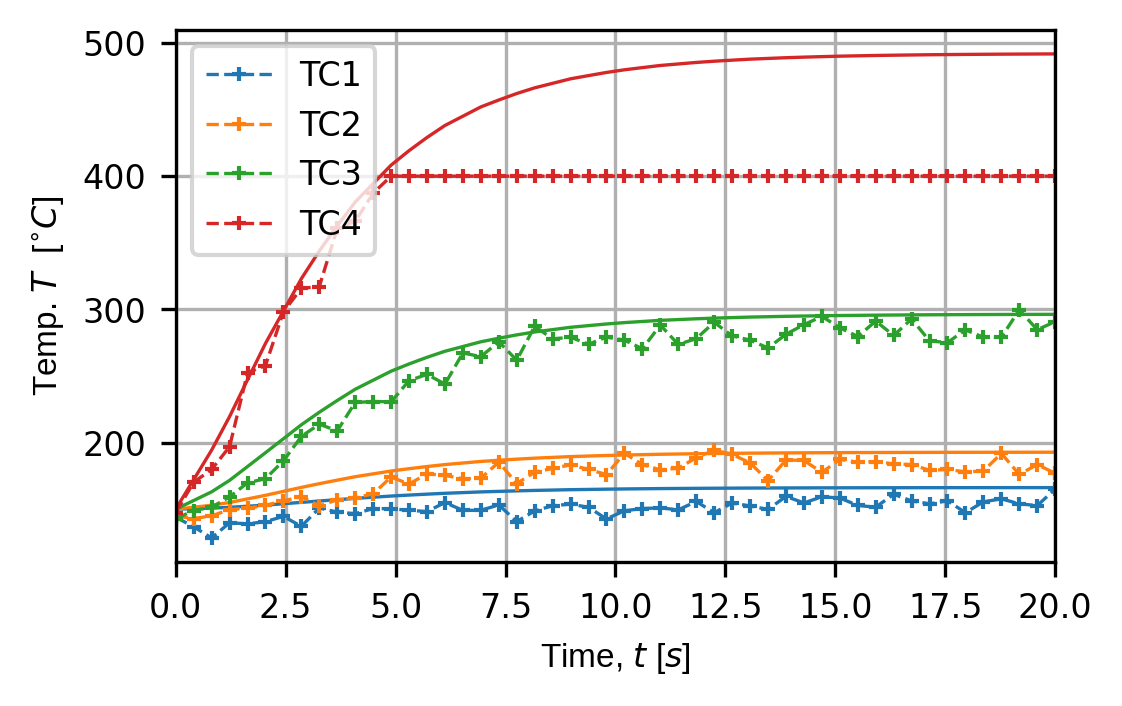
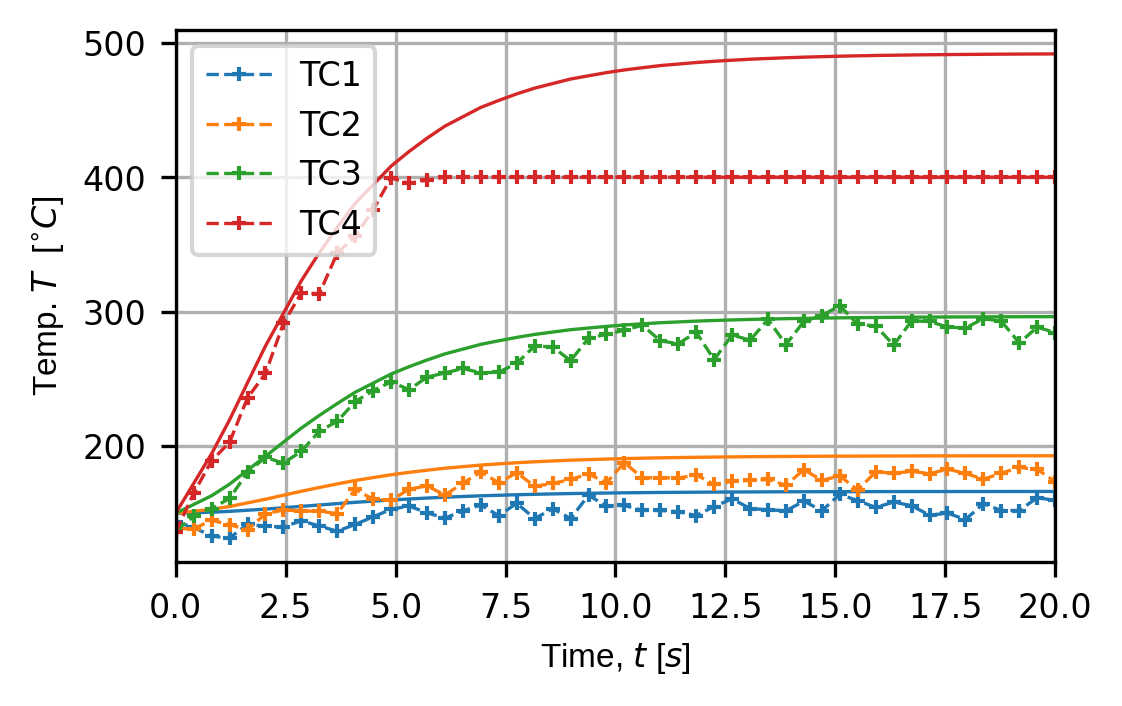
Finished fixing images for docs of new examples and fixed bug with experiment trace plotter not loading correct sim data

Changed region(s): [[0.0624, 0.2181, 0.9358, 0.779], [0.0624, 0.2181, 0.1248, 0.2805], [0.4367, 0.1246, 0.4679, 0.1558]]

diff --git a/src/pyvale/sensorsim/visualexpplotter.py b/src/pyvale/sensorsim/visualexpplotter.py
@@ -24,8 +24,7 @@ from pyvale.sensorsim.experimentstats import calc_sensor_array_stats
 def plot_exp_traces(exp_sim: ExperimentSimulator,
                     component: str,
                     sens_array_num: int,
-                    sim_num: int,
-                    
+                    sim_num: int,                    
                     trace_opts: TraceOptsExperiment | None = None,
                     plot_opts: PlotOptsGeneral | None = None) -> tuple[Any,Any]:
     """Plots time traces for summary statistics of virtual sensor traces over
@@ -58,7 +57,7 @@ def plot_exp_traces(exp_sim: ExperimentSimulator,
     Raises
     ------
     VisError
-        There are no virtual experiments or virtuale experiment stats to plot in
+        There are no virtual experiments or virtual experiment stats to plot in
         the ExperimentSimulator object. Call 'run_experiments' and 'calc_stats'.
     """
     if trace_opts is None:
@@ -67,16 +66,19 @@ def plot_exp_traces(exp_sim: ExperimentSimulator,
     if plot_opts is None:
         plot_opts = PlotOptsGeneral()
 
-    descriptor = exp_sim._sensor_arrays[sens_array_num]._descriptor
-    comp_ind = (
-        exp_sim._sensor_arrays[sens_array_num]
-        .get_field()
-        .get_component_index(component)
-    )
-    samp_time = exp_sim._sensor_arrays[sens_array_num].get_sample_times()
-    num_sens = exp_sim._sensor_arrays[sens_array_num].get_measurement_shape()[0]
+    sensor_array = exp_sim.get_sensor_arrays()[sens_array_num]
+    sim_data = exp_sim.get_sim_list()[sim_num]
+    field = sensor_array.get_field()
+    field.set_sim_data(sim_data)
+    
+    descriptor = sensor_array.get_descriptor()
+    
+    comp_ind = field.get_component_index(component)
 
-    exp_data = exp_sim._exp_data
+    samp_time = sensor_array.get_sample_times()
+    num_sens = sensor_array.get_measurement_shape()[0]
+
+    exp_data = exp_sim.get_exp_data()
 
     if exp_data is None:
         raise VisError("Before visualising virtual experiment traces the " \
@@ -153,17 +155,10 @@ def plot_exp_traces(exp_sim: ExperimentSimulator,
     #---------------------------------------------------------------------------
     # Plot simulation and truth line
     if trace_opts.sim_line is not None:
-        sim_time = (
-            exp_sim._sensor_arrays[sens_array_num]
-            .get_field()
-            .get_time_steps()
-        )
-        sim_vals = (
-            exp_sim._sensor_arrays[sens_array_num]
-            .get_field()
-            .sample_field(exp_sim._sensor_arrays[sens_array_num]._positions)
-        )
-
+        sim_time = field.get_time_steps()
+        sens_pos = sensor_array._sensor_data.positions
+        sim_vals = field.sample_field(sens_pos)
+        
         for ss in sensors_to_plot:
             ax.plot(sim_time,
                     sim_vals[ss,comp_ind,:],
@@ -172,7 +167,7 @@ def plot_exp_traces(exp_sim: ExperimentSimulator,
                     ms=plot_opts.ms)
 
     if trace_opts.truth_line is not None:
-        truth = exp_sim._sensor_arrays[sens_array_num].get_truth()
+        truth = sensor_array.calc_truth()
         for ss in sensors_to_plot:
             ax.plot(samp_time,
                     truth[ss,comp_ind,:],

diff --git a/src/pyvale/sensorsim/sensorarraypoint.py b/src/pyvale/sensorsim/sensorarraypoint.py
@@ -87,6 +87,19 @@ class SensorArrayPoint(ISensorArray):
         self._truth = None
         self._measurements = None
 
+    # TODO: should this be an interface method?
+    def get_descriptor(self) -> SensorDescriptor:
+        """Gets the sensor descriptor data class which contains a series of 
+        strings used to describe the sensor array.
+        
+        Returns
+        -------
+        SensorDescriptor
+            Data class containing strings used to describe the sensor array for
+            visualisations and plots.
+        """
+        return self._descriptor
+
     def get_sample_times(self) -> np.ndarray:
         """Gets the times at which the sensors sample the given physical field.
         This is specified by the user in the SensorData object or defaults to
@@ -129,7 +142,7 @@ class SensorArrayPoint(ISensorArray):
         return self._field
 
 
-    def calc_truth_values(self) -> np.ndarray:
+    def calc_truth(self) -> np.ndarray:
         """Calculates the ground truth sensor values by interpolating the
         simulated physical field using the sensor array parameters in the
         `SensorData` object.
@@ -148,7 +161,7 @@ class SensorArrayPoint(ISensorArray):
     def get_truth(self) -> np.ndarray:
         """Gets the ground truth sensor values that were calculated previously.
         If the ground truth values have not been calculated then
-        `calc_truth_values()` is called first.
+        `calc_truth()` is called first.
 
         Returns
         -------
@@ -157,7 +170,7 @@ class SensorArrayPoint(ISensorArray):
             num_field_components,num_time_steps).
         """
         if self._truth is None:
-            self._truth = self.calc_truth_values()
+            self._truth = self.calc_truth()
 
         return self._truth
 

diff --git a/src/pyvale/examples/extsensorsim/ex4c_angleerrs_vec2d.py b/src/pyvale/examples/extsensorsim/ex4c_angleerrs_vec2d.py
@@ -154,12 +154,33 @@ print(80*"-")
 #%%
 # 4. Analyse & visualise the results
 # ----------------------------------
-# We can now plot the traces for the non-rotated and rotated sensors to
-# compare them:
 
 output_path = Path.cwd() / "pyvale-output"
 if not output_path.is_dir():
     output_path.mkdir(parents=True, exist_ok=True)
+
+
+pv_plot = sens.plot_point_sensors_on_sim(sens_array_norot,
+                                         comp_key="disp_y")
+pv_plot.camera_position = "xy"
+
+# Set to False to show an interactive plot instead of saving the figure
+pv_plot.off_screen = True
+if pv_plot.off_screen: 
+    pv_plot.screenshot(output_path/"ext_ex4c_locs.png")
+else:
+    pv_plot.show()
+
+# %%
+# Virtual sensor locations:
+#
+# .. image:: ../../../../_static/ext_ex4c_locs.png
+#    :alt: Visualisation of virtual sensor locations.
+#    :width: 800px
+#    :align: center
+
+# We can now plot the traces for the non-rotated and rotated sensors to
+# compare them:
 
 for ff in disp_keys:
     (fig,ax) = sens.plot_time_traces(sens_array_norot,ff)
@@ -180,7 +201,7 @@ for ff in disp_keys:
 # %%
 # Non-rotated sensors, y displacement:
 #
-# .. image:: ../../../../_static/ext_ex4c_traces_disp_y_norot.png
+# .. image:: ../../../../_static/ext_ex4c_traces_norot_disp_y.png
 #    :alt: Non-rotated sensor traces for the y displacement.
 #    :width: 600px
 #    :align: center
@@ -188,7 +209,7 @@ for ff in disp_keys:
 # %%
 # Rotated sensors, x displacement:
 #
-# .. image:: ../../../../_static/ext_ex4c_traces_disp_x_rot.png
+# .. image:: ../../../../_static/ext_ex4c_traces_rot_disp_x.png
 #    :alt: Rotated sensor traces for the x displacement.
 #    :width: 600px
 #    :align: center

diff --git a/src/pyvale/examples/extsensorsim/ex4b_fielderrs_scal3d.py b/src/pyvale/examples/extsensorsim/ex4b_fielderrs_scal3d.py
@@ -155,6 +155,30 @@ output_path = Path.cwd() / "pyvale-output"
 if not output_path.is_dir():
     output_path.mkdir(parents=True, exist_ok=True)
 
+pv_plot = sens.plot_point_sensors_on_sim(sens_array,
+                                         comp_key="temperature")
+
+pv_plot.camera_position = [(59.354, 43.428, 69.946),
+                           (-2.858, 13.189, 4.523),
+                           (-0.215, 0.948, -0.233)]
+
+# Set to False to show an interactive plot instead of saving the figure
+pv_plot.off_screen = True
+if pv_plot.off_screen: 
+    pv_plot.screenshot(output_path/"ext_ex4b_locs.png")
+else:
+    pv_plot.show()
+
+# %%
+# Visualisation of nominal and perturbed sensor locations including the field 
+# errors.
+#
+# .. image:: ../../../../_static/ext_ex4b_locs.png
+#    :alt: Visualisation of virtual sensor locations.
+#    :width: 800px
+#    :align: center
+
+
 (fig,ax) = sens.plot_time_traces(sens_array,comp_key="temperature")
 fig.savefig(output_path/"ext_ex4b_traces.png",dpi=300,bbox_inches="tight")
 
@@ -162,7 +186,11 @@ fig.savefig(output_path/"ext_ex4b_traces.png",dpi=300,bbox_inches="tight")
 # plt.show()
 
 # %%
+# Sensor traces showing the effects of the field error perturbing sensor 
+# location and sensor sample times.
+# 
 # .. image:: ../../../../_static/ext_ex4b_traces.png
 #    :alt: Simulated sensor traces.
 #    :width: 600px
 #    :align: center
+

diff --git a/src/pyvale/sensorsim/experimentsimulator.py b/src/pyvale/sensorsim/experimentsimulator.py
@@ -102,3 +102,20 @@ class ExperimentSimulator:
         # shape=list[n_sens_arrays](n_sims,n_exps,n_sens,n_comps,n_time_steps)
         return self._exp_data
 
+    def get_exp_data(self) -> list[np.ndarray] | None:
+        """Gets the experiment data list of numpy arrays if simulated 
+        experiments have been run. Otherwise returns none.
+
+        Returns
+        -------
+        list[np.ndarray] | None
+            List of virtual experimental data arrays where the list index
+            corresponds to the virtual sensor array and the data is an array
+            with shape=(n_sims,n_exps,n_sens,n_comps,n_time_steps). Returns 
+            None if no virtual experiments have been run.
+        """
+
+        # shape=list[n_sens_arrays](n_sims,n_exps,n_sens,n_comps,n_time_steps)
+        return self._exp_data
+         
+    

diff --git a/src/pyvale/sensorsim/camera.py b/src/pyvale/sensorsim/camera.py
@@ -71,7 +71,7 @@ class CameraBasic2D(ISensorArray):
 
     #---------------------------------------------------------------------------
     # Truth calculation from simulation
-    def calc_truth_values(self) -> np.ndarray:
+    def calc_truth(self) -> np.ndarray:
         self._truth = sample_field_with_sensor_data(self._field,
                                                     self._sensor_data)
         #shape=(n_pixels,n_field_comps,n_time_steps)
@@ -79,7 +79,7 @@ class CameraBasic2D(ISensorArray):
 
     def get_truth(self) -> np.ndarray:
         if self._truth is None:
-            self._truth = self.calc_truth_values()
+            self._truth = self.calc_truth()
         #shape=(n_pixels,n_field_comps,n_time_steps)
         return self._truth
 

diff --git a/src/pyvale/sensorsim/camerasensor.py b/src/pyvale/sensorsim/camerasensor.py
@@ -71,7 +71,7 @@ class CameraBasic2D(ISensorArray):
 
     #---------------------------------------------------------------------------
     # Truth calculation from simulation
-    def calc_truth_values(self) -> np.ndarray:
+    def calc_truth(self) -> np.ndarray:
         self._truth = sample_field_with_sensor_data(self._field,
                                                     self._sensor_data)
         #shape=(n_pixels,n_field_comps,n_time_steps)
@@ -79,7 +79,7 @@ class CameraBasic2D(ISensorArray):
 
     def get_truth(self) -> np.ndarray:
         if self._truth is None:
-            self._truth = self.calc_truth_values()
+            self._truth = self.calc_truth()
         #shape=(n_pixels,n_field_comps,n_time_steps)
         return self._truth
 

diff --git a/src/pyvale/examples/extsensorsim/ex5a_expsim_thermmech2d.py b/src/pyvale/examples/extsensorsim/ex5a_expsim_thermmech2d.py
@@ -281,14 +281,14 @@ for ii,_ in enumerate(sim_data_list):
 # %%
 # Simulated displacement traces for input physics simulation 0:
 # 
-# .. image:: ../../../../_static/ext_ex5a_traces_disp_y.png
+# .. image:: ../../../../_static/ext_ex5a_traces_sim0_disp_y.png
 #    :alt: Simulated displacement sensor traces form input simulation 0.
 #    :width: 600px
 #    :align: center
 #
 # Simulated displacement traces for input physics simulation 1:
 # 
-# .. image:: ../../../../_static/ext_ex5a_traces_disp_y.png
+# .. image:: ../../../../_static/ext_ex5a_traces_sim1_disp_y.png
 #    :alt: Simulated displacement sensor traces form input simulation 1.
 #    :width: 600px
 #    :align: center

diff --git a/src/pyvale/examples/extsensorsim/ex5b_expsim_thermmech3d.py b/src/pyvale/examples/extsensorsim/ex5b_expsim_thermmech3d.py
@@ -286,14 +286,14 @@ for ii,_ in enumerate(sim_data_list):
 # %%
 # Simulated strain traces for input physics simulation 0:
 # 
-# .. image:: ../../../../_static/ext_ex5b_traces_disp_y.png
+# .. image:: ../../../../_static/ext_ex5b_traces_sim0_strain_yy.png
 #    :alt: Simulated strain sensor traces form input simulation 0.
 #    :width: 600px
 #    :align: center
 #
 # Simulated strain traces for input physics simulation 1:
 # 
-# .. image:: ../../../../_static/ext_ex5b_traces_disp_y.png
+# .. image:: ../../../../_static/ext_ex5b_traces_sim1_strain_yy.png
 #    :alt: Simulated strain sensor traces form input simulation 1.
 #    :width: 600px
 #    :align: center

diff --git a/src/pyvale/examples/extsensorsim/ex4e_chainfielderrs_vec2d.py b/src/pyvale/examples/extsensorsim/ex4e_chainfielderrs_vec2d.py
@@ -208,7 +208,7 @@ pv_plot.screenshot(save_render)
 # pv_plot.show(cpos="xy")
 
 # %%
-# .. image:: ../../../../_static/adv_ex4e_locs.png
+# .. image:: ../../../../_static/ext_ex4e_locs.png
 #    :alt: Virtual sensor locations.
 #    :width: 800px
 #    :align: center
@@ -222,7 +222,7 @@ for kk in disp_keys:
 # plt.show()
 
 # %%
-# .. image:: ../../../../_static/adv_ex4e_traces_disp_y.png
+# .. image:: ../../../../_static/ext_ex4e_traces_disp_y.png
 #    :alt: Simulated sensor traces.
 #    :width: 600px
 #    :align: center

diff --git a/src/pyvale/examples/extsensorsim/ex3a_scal2d.py b/src/pyvale/examples/extsensorsim/ex3a_scal2d.py
@@ -71,7 +71,7 @@ sens_array: sens.SensorArrayPoint = sens.SensorFactory.scalar_point(
 
 error_chain: list[sens.IErrSimulator] = []
 error_chain.append(sens.ErrSysOffset(offset=-10.0))
-error_chain.append(sens.ErrSysUnif(low=-50.0,
+error_chain.append(sens.ErrSysUnif(low=-5.0,
                                    high=5.0))
 error_chain.append(sens.ErrRandNorm(std=5.0))
 error_chain.append(sens.ErrRandUnifPercent(low_percent=-2.0,

diff --git a/src/pyvale/sensorsim/sensorarray.py b/src/pyvale/sensorsim/sensorarray.py
@@ -81,7 +81,7 @@ class ISensorArray(ABC):
     def get_truth(self) -> np.ndarray:
         """Abstract method. Gets the ground truth sensor values that were
         calculated previously. If the ground truth values have not been
-        calculated then `calc_truth_values()` is called first.
+        calculated then `calc_truth()` is called first.
 
         Returns
         -------
